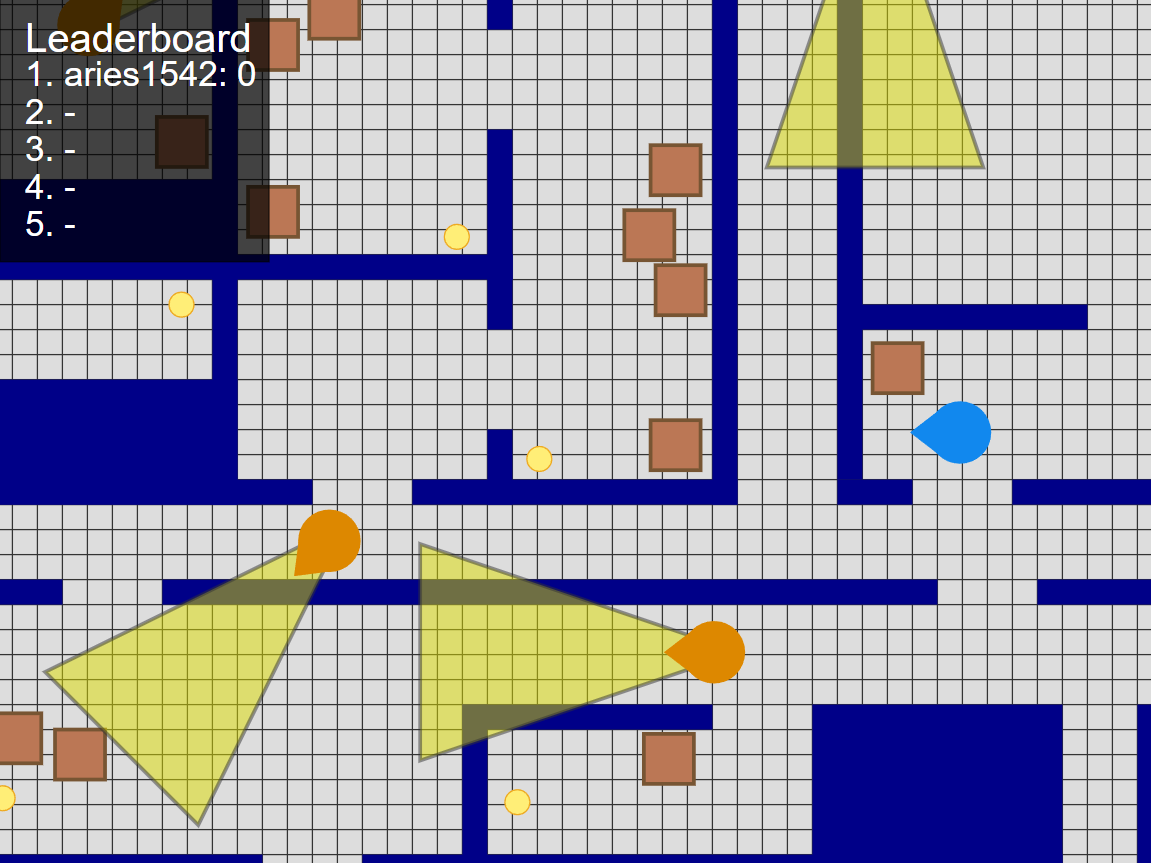
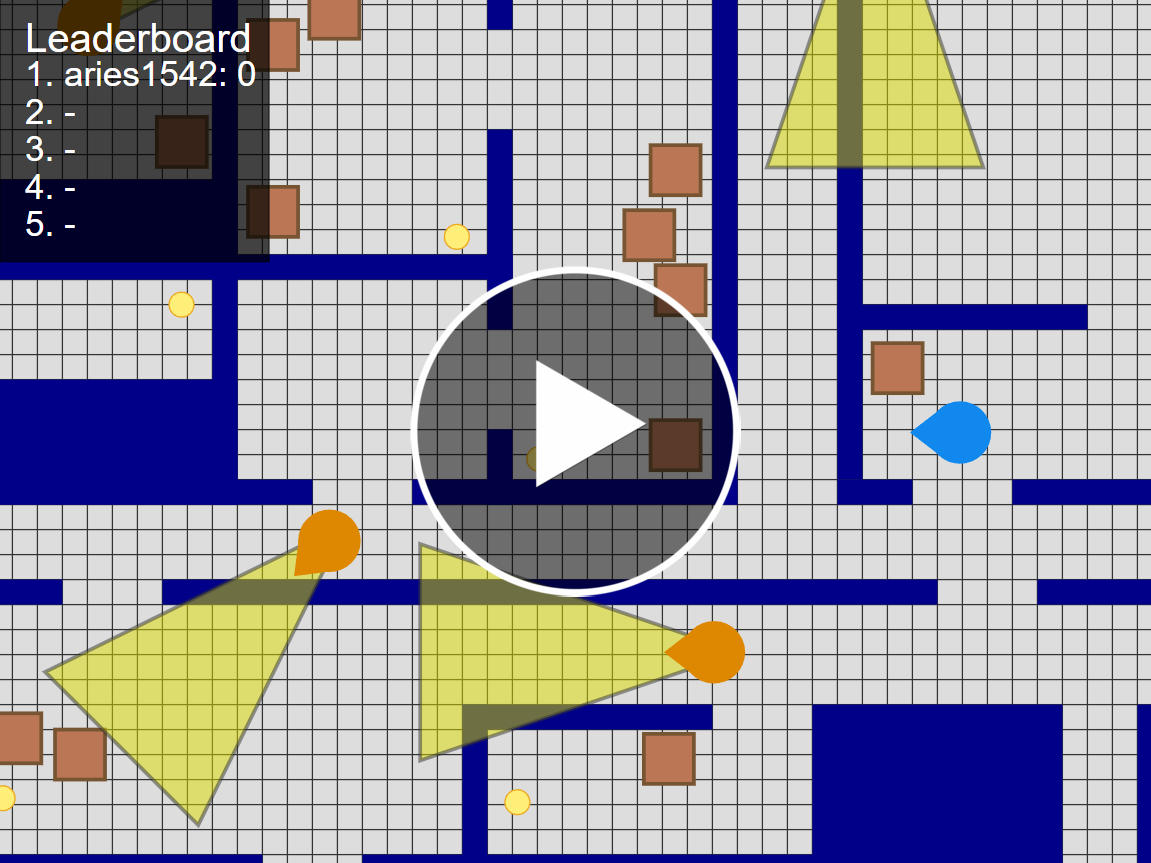
Got gamification section done

Changed region(s): [[0.3345, 0.3013, 0.669, 0.6929]]

diff --git a/client/src/components/SecondHeadline.tsx b/client/src/components/SecondHeadline.tsx
@@ -1,31 +1,20 @@
 import infiltrateImage from "../../../public/images/infiltrate_screenshot.png";
 
-// import { useGSAP } from "@gsap/react";
-// import { ScrollTrigger } from "gsap/all";
-// import gsap from "gsap";
 
-// gsap.registerPlugin(ScrollTrigger);
+const openGamePopup = () => {
+  const width = 800;  
+  const height = 600;
 
+  var left = (screen.width/2)-(width/2);
+  var top = (screen.height/2)-(height/2);
+  window.open(
+    "https://infiltrate.aries1542.dev/", 
+    "_blank", 
+    `width=${width},height=${height},left=${left},top=${top}`
+  );
+};
 
 const SecondHeadline = () => {
-
-
-  // useGSAP(() => {
-  //   gsap.from('#stories', {
-  //     y: 150,
-  //     // repeat: -1,
-  //     scrollTrigger: {
-  //       trigger: '#stories',
-  //       start: 'top bottom',
-  //       end: 'top 70%',
-  //       scrub: true,
-  //     },
-  //     ease: 'power1.inOut',
-
-  //   })
-  // }, []);
-
-  
   
   return (
     <section className="md:-mb-2 mt-6 md:mt-0">
@@ -67,17 +56,22 @@ const SecondHeadline = () => {
           </div>
   
           <div className="md:relative mb-5 md:ml-5">
-            <div className="md:absolute md:top-[5em] w-3/4 md:left-[1em]">
-              <img src={infiltrateImage} className="w-[20em] h-[15em]"></img>
+            <div className="md:absolute md:top-[3em] w-3/4 md:left-[1em]">
+              <button onClick={openGamePopup} >
+                <figure className="mb-2 sm:w-[20em]">
+                  <img src={infiltrateImage} className="sm:w-[20em] sm:h-[15em]"/>
+                  <figcaption className="text-center"> <span className="italic">Infiltrate</span> by Nick De Jong</figcaption>
+                </figure>
+              </button>
     
               <div className="w-5/6">
                 <h2 className="mb-2">
                   <span className="red-line w-[1em] h-[2px]"></span>
-                  <span className="font-bold">Can You Solve It?</span>
+                  <span className="font-bold">Can You Beat It?</span>
                 </h2>
                 <p className="text-secondary text-xs ml-2 w-full sm:w-5/6">
-                  Test your skills with a real challenge
-                  built by Utah Tech{" "}
+                  Click the image above to test your skills with 
+                  a real challenge built by Utah Tech{" "}
                   <span className="font-bold">SE{" "}</span> 
                   and{" "}
                   <span className="font-bold">IT{" "}</span> students.
